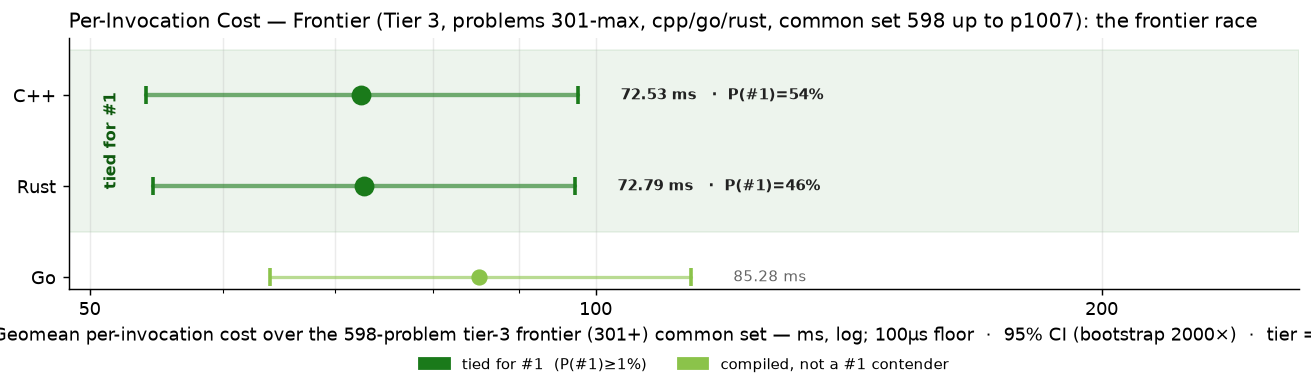
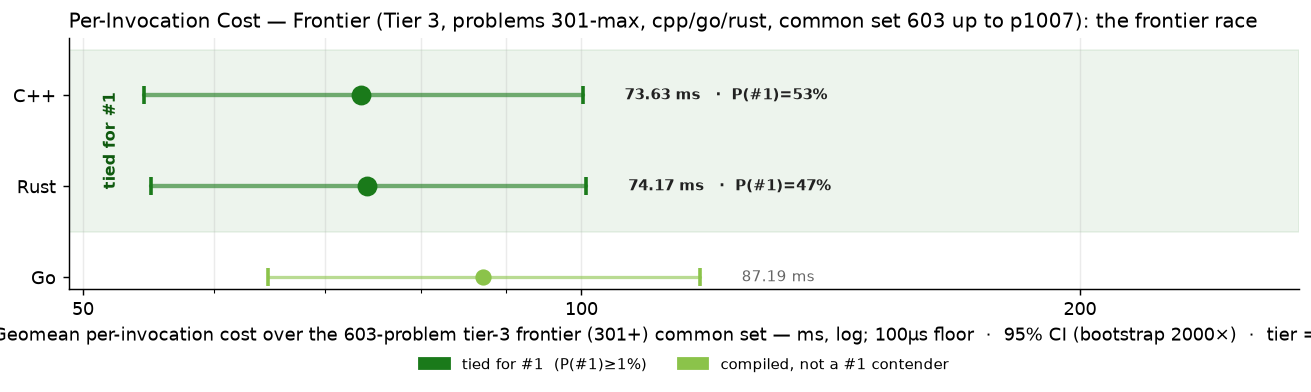
go p0524 p0526 p0566 p0573; cpp p0320 p0686 p0714 p0719 p0808

diff --git a/RESULTS.md b/RESULTS.md
@@ -1,6 +1,6 @@
 # Project Euler — Cross-Language Benchmarks
 
-> **Scope: 4521 in-scope cells across 1007 problems × tiered languages — 4322 measured (95.6% coverage).**
+> **Scope: 4521 in-scope cells across 1007 problems × tiered languages — 4331 measured (95.8% coverage).**
 > The cross-language ranking below is computed over the **200-problem common set** (problems in 1-200 where every language has a passing measurement) — the apples-to-apples Foundation comparison surface.  Per-tier rankings and coverage detail appear further below.
 > Growing carefully — each new problem and language is audited for state-leak
 > safety, verified for answer correctness, and added only when it cleanly fits the
@@ -70,15 +70,15 @@ Same scatter as the Foundation chart, restricted to the tier-2 active languages 
 
 The frontier verification trio — C++, Go, Rust — on problems above 300. 3-way cross-language agreement is the verification protocol (strictly stronger than 2-way; see JOURNEY.md "Tier Reframing" episode for the p254 lesson that motivated it). Python and Zig are explicitly out of this tier — python's wall cost makes it impractical at level 5+, and zig's role caps at Tier 2.
 
-### Per-Invocation Cost (Common Set, 598 of ≤707 problems in scope)
+### Per-Invocation Cost (Common Set, 603 of ≤707 problems in scope)
 
 ![Per-Invocation Cost — Tier 3](charts/per_iter_total_tier3.png)
 
-| Rank | Language | Geomean (598-problem common set) | Total (sum) | Lines of code | vs Fastest |
+| Rank | Language | Geomean (603-problem common set) | Total (sum) | Lines of code | vs Fastest |
 |------|----------|--------------------:|------------:|--------------:|-----------:|
-| 1 | **C++** | 72.53 ms | 1801.32 s | 84,684 | 1.00× |
-| 2 | **Rust** | 72.79 ms | 1657.82 s | 110,540 | 1.00× |
-| 3 | **Go** | 85.28 ms | 2057.84 s | 105,996 | 1.18× |
+| 1 | **C++** | 73.63 ms | 1808.14 s | 85,554 | 1.00× |
+| 2 | **Rust** | 74.17 ms | 1697.60 s | 112,803 | 1.01× |
+| 3 | **Go** | 87.19 ms | 2071.35 s | 107,591 | 1.18× |
 
 ### Speed vs Code Size
 

diff --git a/per_problem/per_problem_0701-0800.md b/per_problem/per_problem_0701-0800.md
@@ -21,12 +21,12 @@ in tier-1 display order (native → managed → interpreted).
 | **p0711** | 164.00 ms | 157.92 ms | 532.54 ms |
 | **p0712** | 476.23 ms | 510.09 ms | 487.96 ms |
 | **p0713** | 16.96 ms | 15.51 ms | 17.42 ms |
-| **p0714** | ✗ fail | 10.31 s | — |
+| **p0714** | 17.11 s | 10.31 s | — |
 | **p0715** | 5.61 s | 3.31 s | 4.36 s |
 | **p0716** | 15.85 ms | 4.48 ms | 11.02 ms |
 | **p0717** | 1.28 s | 1.33 s | 477.03 ms |
 | **p0718** | 1.92 s | 1.70 s | 6.34 s |
-| **p0719** | ✗ fail | 133.05 ms | — |
+| **p0719** | 1.66 s | 133.05 ms | — |
 | **p0720** | 2.36 s | 2.50 s | 3.27 s |
 | **p0721** | 6.70 s | 1.78 s | 6.24 s |
 | **p0722** | 10.87 s | 10.75 ms | 1.51 ms |
@@ -108,8 +108,6 @@ in tier-1 display order (native → managed → interpreted).
 | **p0798** | — | 1.40 s | — |
 | **p0799** | 7.26 s | 5.67 s | 15.28 s |
 | **p0800** | 88.48 ms | 51.46 ms | 44.34 ms |
-
-> ✗ — *process-contract failure* (METHODOLOGY.md §2): the row is recorded as a failure with its reason class (untimed-work / parallel-execution) — there is no path by which a contract-breaking measurement appears as a fast time.
 
 > ~ — *wide spread*: observed samples span more than 3× the reported figure. Since noise here is one-sided and the reported figure is the MINIMUM, a wide spread does not make the number too high — it means the machine was disturbed at some point while that cell was sampled. The threshold is calibrated to the sampling schedule, because observing more samples mechanically widens min..max (METHODOLOGY.md §3b).
 

diff --git a/per_problem/per_problem_0501-0600.md b/per_problem/per_problem_0501-0600.md
@@ -31,9 +31,9 @@ in tier-1 display order (native → managed → interpreted).
 | **p0521** | 735.01 ms | 851.44 ms | 2.42 s |
 | **p0522** | 4.26 s | 2.07 s | 977.44 ms |
 | **p0523** | 5.7 µs | 3.4 µs | 17.0 µs~ |
-| **p0524** | 799.49 ms | 18.03 ms | — |
+| **p0524** | 799.49 ms | 18.03 ms | 4.72 s |
 | **p0525** | 273.7 µs | 206.1 µs | 815.5 µs |
-| **p0526** | 1.91 s | 28.60 s | — |
+| **p0526** | 1.91 s | 28.60 s | 2.00 s |
 | **p0527** | 7.3 µs | 7.4 µs | 144.8 µs |
 | **p0528** | 3.22 ms | 2.94 ms | 725.8 µs |
 | **p0529** | 1.19 s | 1.33 s | 1.40 s |
@@ -73,14 +73,14 @@ in tier-1 display order (native → managed → interpreted).
 | **p0563** | 1.13 s | 25.47 s | 20.01 s |
 | **p0564** | 13.35 s | 11.02 s | 17.75 s |
 | **p0565** | 357.89 ms | 213.11 ms | 230.24 ms |
-| **p0566** | 1.43 s | 8.57 s | — |
+| **p0566** | 1.43 s | 8.57 s | 2.32 s |
 | **p0567** | 932.94 ms | 150.20 ms | 467.64 ms |
 | **p0568** | <1 µs~ | <1 µs | 463.98 ms |
 | **p0569** | 610.42 ms | 698.82 ms | 4.71 s |
 | **p0570** | 377.49 ms | 1.76 s | 1.98 s |
 | **p0571** | 3.30 s | 3.42 s | 11.09 s |
 | **p0572** | 268.53 ms | 13.09 s | 48.68 ms |
-| **p0573** | 3.00 ms | 14.64 ms | — |
+| **p0573** | 3.00 ms | 14.64 ms | 29.09 ms |
 | **p0574** | 5.76 ms | 15.83 ms | 46.28 ms |
 | **p0575** | 108.66 ms | 4.02 ms | 150.5 µs |
 | **p0576** | 969.79 ms | 192.17 ms | 415.43 ms |

diff --git a/per_problem/per_problem_0801-0900.md b/per_problem/per_problem_0801-0900.md
@@ -15,7 +15,7 @@ in tier-1 display order (native → managed → interpreted).
 | **p0805** | — | 27.52 ms | — |
 | **p0806** | — | 220.58 ms | — |
 | **p0807** | — | 4.86 ms | — |
-| **p0808** | ✗ fail | 169.86 ms | — |
+| **p0808** | 15.91 ms | 169.86 ms | — |
 | **p0809** | 23.3 µs | 12.22 ms | 60.34 ms |
 | **p0810** | 9.57 s | 2.00 s | 8.93 s |
 | **p0811** | 79.53 ms | 34.56 ms | 12.38 ms |
@@ -108,8 +108,6 @@ in tier-1 display order (native → managed → interpreted).
 | **p0898** | 114.13 ms | 434.07 ms | 5.94 s |
 | **p0899** | 1.0 µs | 392.8 µs | 144.64 ms |
 | **p0900** | 12.91 ms | 336.31 ms | 489.1 µs |
-
-> ✗ — *process-contract failure* (METHODOLOGY.md §2): the row is recorded as a failure with its reason class (untimed-work / parallel-execution) — there is no path by which a contract-breaking measurement appears as a fast time.
 
 > ~ — *wide spread*: observed samples span more than 3× the reported figure. Since noise here is one-sided and the reported figure is the MINIMUM, a wide spread does not make the number too high — it means the machine was disturbed at some point while that cell was sampled. The threshold is calibrated to the sampling schedule, because observing more samples mechanically widens min..max (METHODOLOGY.md §3b).
 

diff --git a/per_problem/per_problem_0301-0400.md b/per_problem/per_problem_0301-0400.md
@@ -27,7 +27,7 @@ in tier-1 display order (native → managed → interpreted).
 | **p0317** | <1 µs | <1 µs | 1.1 µs~ |
 | **p0318** | 249.3 µs | 241.5 µs | 383.4 µs |
 | **p0319** | 273.60 ms | 206.04 ms | 729.67 ms |
-| **p0320** | ✗ fail | 2.57 s | 4.45 s |
+| **p0320** | 2.68 s | 2.57 s | 4.45 s |
 | **p0321** | 2.4 µs | 1.3 µs | 6.5 µs~ |
 | **p0322** | 386.70 ms | 380.03 ms | 766.42 ms |
 | **p0323** | <1 µs~ | <1 µs | 1.4 µs~ |
@@ -108,8 +108,6 @@ in tier-1 display order (native → managed → interpreted).
 | **p0398** | 12.13 ms | 23.02 ms | 24.34 ms |
 | **p0399** | 2.16 s | 8.53 s | 7.90 s |
 | **p0400** | 1.29 s | 1.15 s | 1.58 s |
-
-> ✗ — *process-contract failure* (METHODOLOGY.md §2): the row is recorded as a failure with its reason class (untimed-work / parallel-execution) — there is no path by which a contract-breaking measurement appears as a fast time.
 
 > † — *no corroboration*: no two samples agreed within 5% even at the cell's full sample count. Diagnostic only — the reported minimum still stands; it flags a disturbed measurement environment worth re-benching (METHODOLOGY.md §3).
 

diff --git a/per_problem/per_problem_0601-0700.md b/per_problem/per_problem_0601-0700.md
@@ -93,7 +93,7 @@ in tier-1 display order (native → managed → interpreted).
 | **p0683** | 1.23 s | 1.38 s | 3.67 s |
 | **p0684** | 46.9 µs | 21.4 µs | 13.3 µs~ |
 | **p0685** | 56.98 ms | 25.05 ms | 14.25 ms |
-| **p0686** | ✗ fail | 215.55 ms | — |
+| **p0686** | 190.28 ms | 215.55 ms | — |
 | **p0687** | 48.07 ms | 1.13 ms | 1.34 ms |
 | **p0688** | 884.68 ms | 926.39 ms | 1.12 s |
 | **p0689** | — | 26.33 ms | — |
@@ -108,8 +108,6 @@ in tier-1 display order (native → managed → interpreted).
 | **p0698** | 252.8 µs | 146.3 µs | 165.1 µs |
 | **p0699** | 2.44 s | 7.68 s | 1.40 s |
 | **p0700** | <1 µs | <1 µs | 1.4 µs~ |
-
-> ✗ — *process-contract failure* (METHODOLOGY.md §2): the row is recorded as a failure with its reason class (untimed-work / parallel-execution) — there is no path by which a contract-breaking measurement appears as a fast time.
 
 > † — *no corroboration*: no two samples agreed within 5% even at the cell's full sample count. Diagnostic only — the reported minimum still stands; it flags a disturbed measurement environment worth re-benching (METHODOLOGY.md §3).
 
